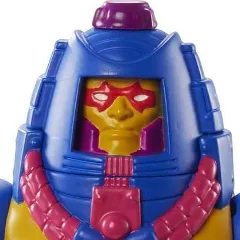
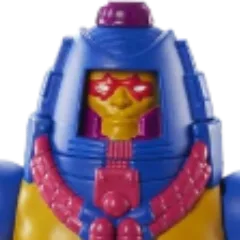
Photos: MAN-E-FACES (ori-cl-f-007)

diff --git a/photos.js b/photos.js
@@ -53,13 +53,14 @@ window.MOTU_PHOTOS = {
  "ori-cl-f-007": {
   "images": [
    "img/characters/ori-cl-f-007-1.webp?v=d1nt0e",
+   "img/characters/ori-cl-f-007-cb.webp?v=dtifu5",
    "img/characters/ori-cl-f-007-2.webp?v=d1nt0e",
    "img/characters/ori-cl-f-007-3.webp?v=d1nt0e",
    "img/characters/ori-cl-f-007-4.webp?v=d1nt0e",
    "img/characters/ori-cl-f-007-5.webp?v=d1nt0e"
   ],
   "preview": "img/characters/ori-cl-f-007-shelf.png?v=d1nt0e",
-  "thumb": "img/characters/ori-cl-f-007-thumb.webp?v=d1nt0e"
+  "thumb": "img/characters/ori-cl-f-007-thumb.webp?v=dtifu5"
  },
  "ori-cl-f-001": {
   "images": [
